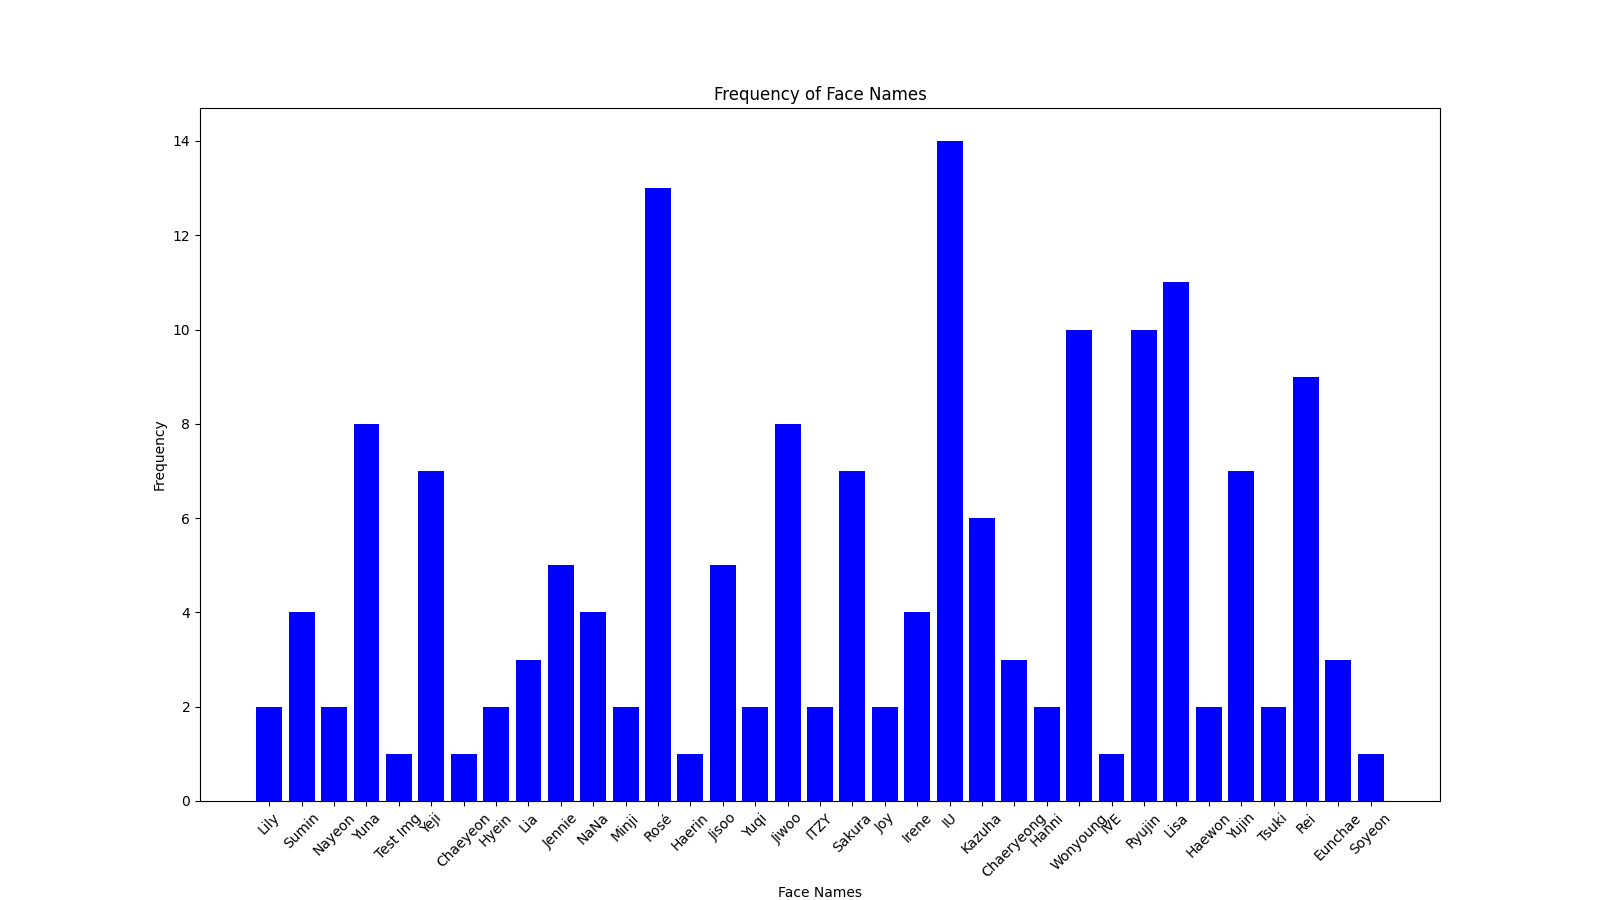
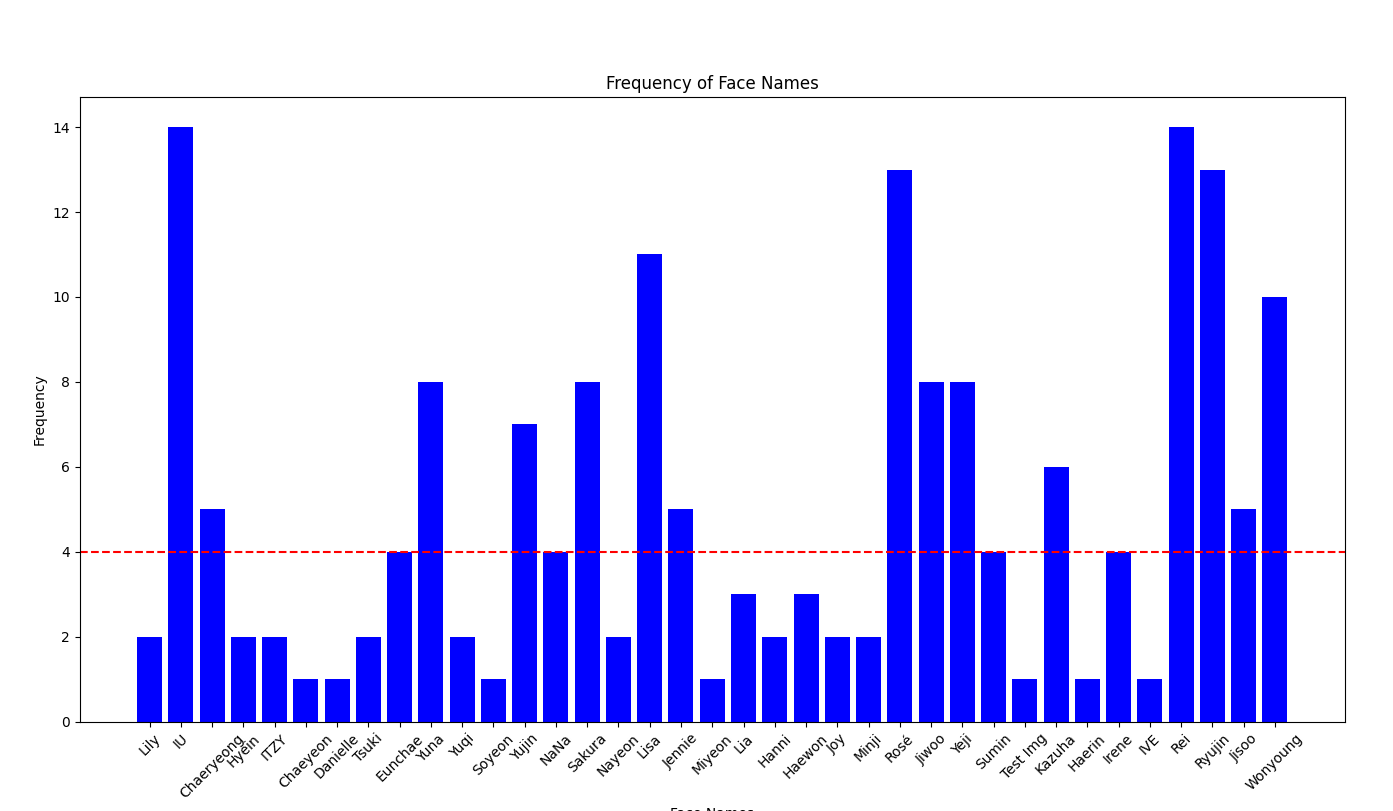
README.md updated

diff --git a/README.md b/README.md
@@ -654,10 +654,10 @@
 
 - **Example Result**:
     ```
-    Passed faces: Sumin (4 times), Yuna (8 times), Yeji (7 times), Jennie (5 times), NaNa (4 times), Rosé (13 times), Jisoo (5 times), Jiwoo (8 times), Sakura (7 times), Irene (4 times), IU (14 times), Kazuha (6 times), Wonyoung (10 times), Ryujin (10 times), Lisa (11 times), Yujin (7 times), Rei (9 times)
-    Failed faces: Lily (2 times), Nayeon (2 times), Test Img (1 times), Chaeyeon (1 times), Hyein (2 times), Lia (3 times), Minji (2 times), Haerin (1 times), Yuqi (2 times), ITZY (2 times), Joy (2 times), Chaeryeong (3 times), Hanni (2 times), IVE (1 times), Haewon (2 times), Tsuki (2 times), Eunchae (3 times), Soyeon (1 times)
-    Face Pass: 14
-    Face Fail: 21
+    Passed faces: Rosé (13 times), Jennie (5 times), Ryujin (13 times), Chaeryeong (5 times), NaNa (4 times), Lisa (11 times), Kazuha (6 times), Eunchae (4 times), Yeji (8 times), Irene (4 times), Rei (14 times), Yujin (7 times), IU (14 times), Sumin (4 times), Jisoo (5 times), Jiwoo (8 times), Wonyoung (10 times), Yuna (8 times), Sakura (8 times)
+    Failed faces: Haewon (3 times), Minji (2 times), ITZY (2 times), Haerin (1 times), Miyeon (1 times), Joy (2 times), Test Img (1 times), Soyeon (1 times), Lia (3 times), Nayeon (2 times), Chaeyeon (1 times), Yuqi (2 times), Hyein (2 times), Hanni (2 times), Lily (2 times), Danielle (1 times), Tsuki (2 times), IVE (1 times)
+    Face Pass: 15
+    Face Fail: 22
     ```
   ![Figure_1.png](database/image/README.md%20image/Figure.png)
 
